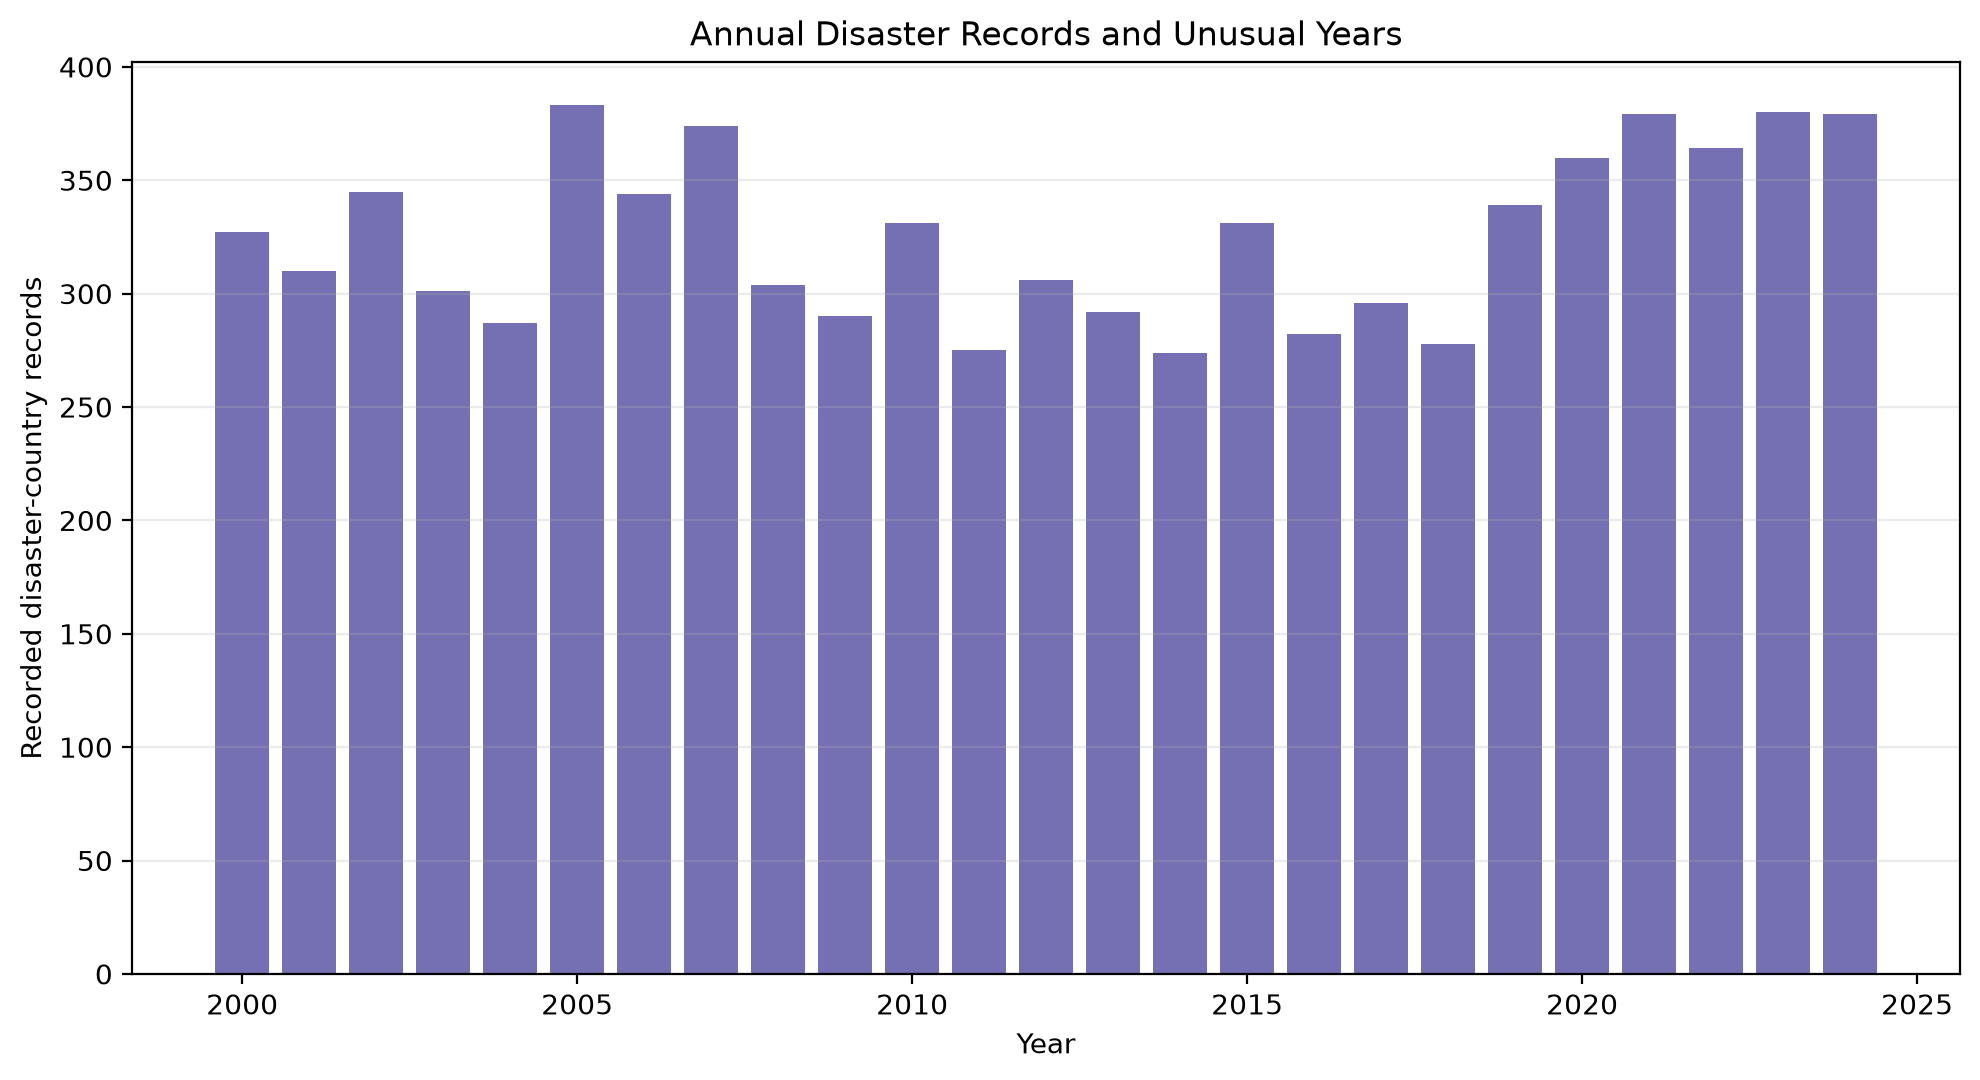
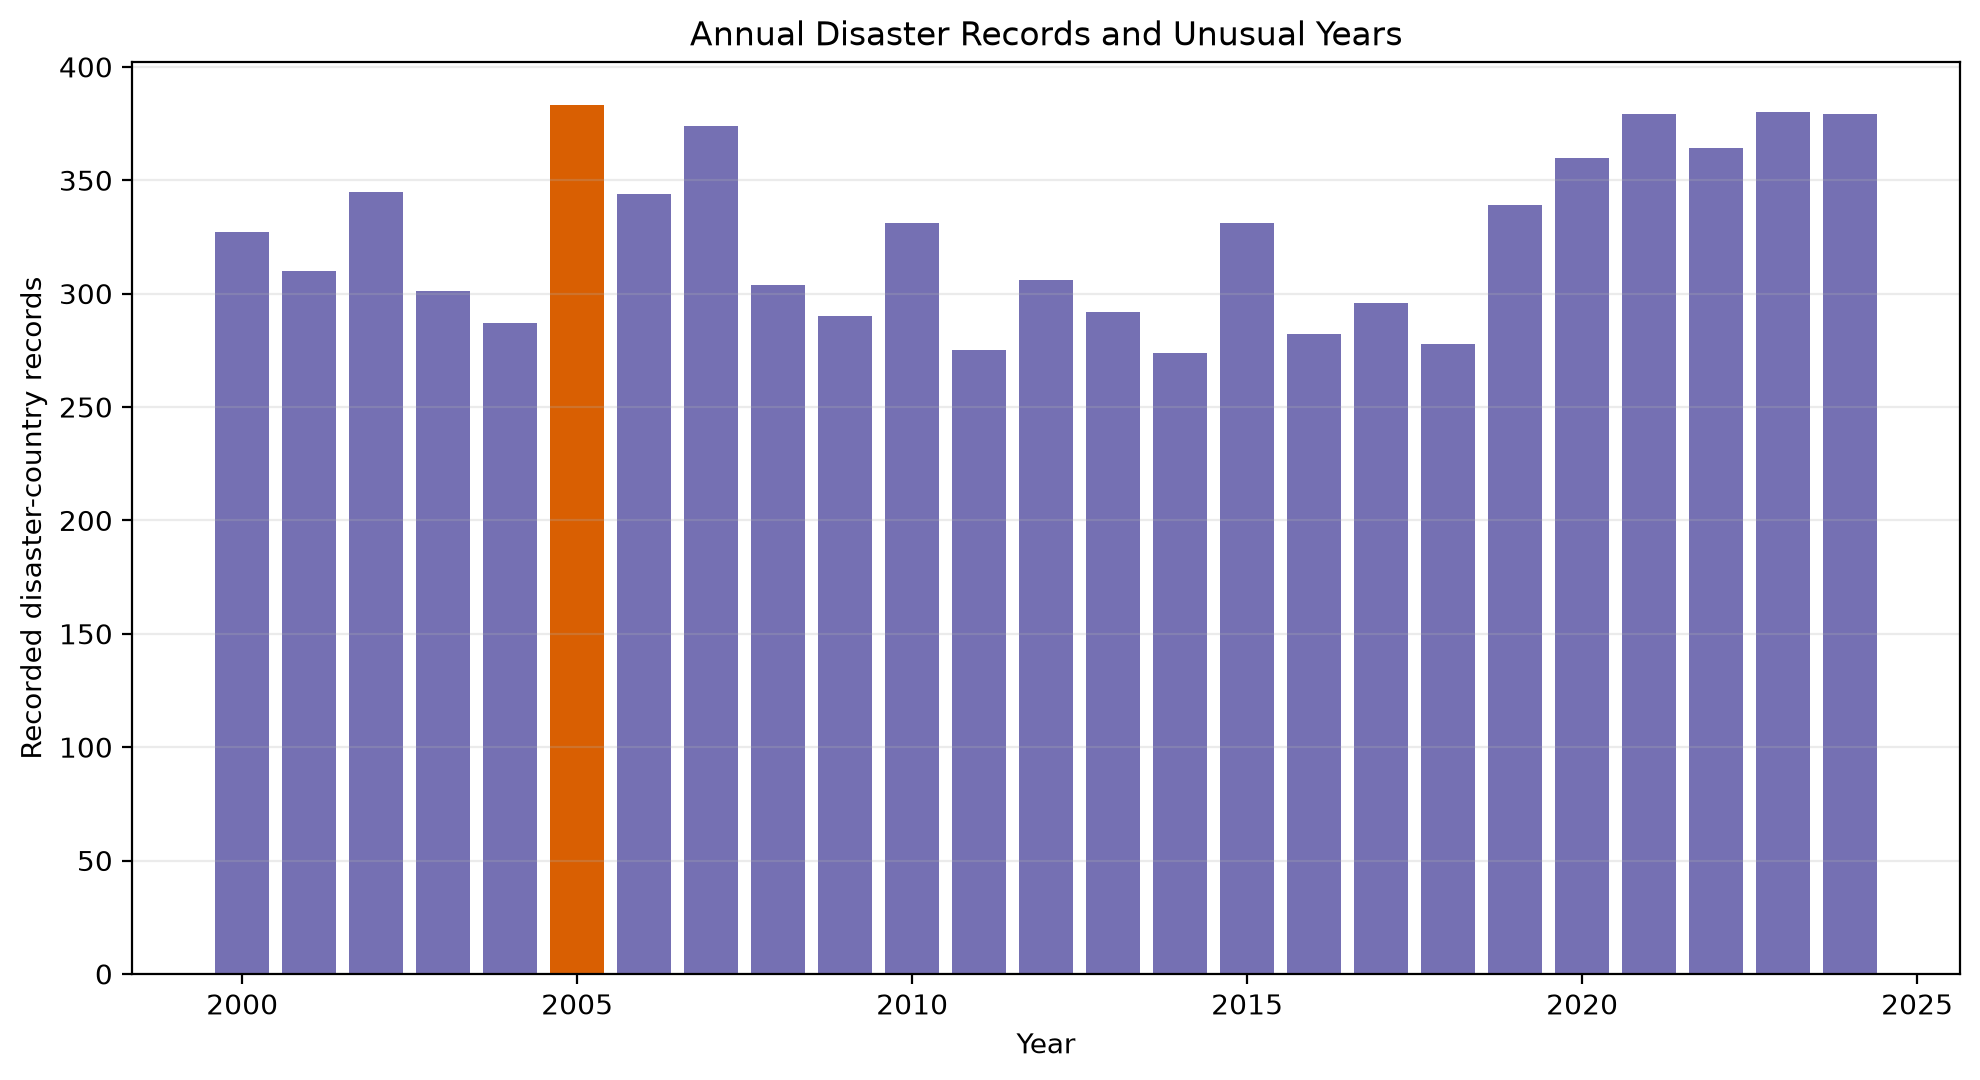
update z score threshold

Changed region(s): [[0.2773, 0.0917, 0.3081, 0.9167]]

diff --git a/main.py b/main.py
@@ -37,6 +37,7 @@ START_YEAR = 2000
 END_YEAR = 2024
 OUTPUT_DIR = Path("iss_week4_outputs")
 WEEK7_OUTPUT_DIR = Path("iss_week7_outputs")
+UNUSUAL_YEAR_Z_THRESHOLD = 1.5
 
 # Selected EM-DAT disaster types. Verify spelling against your downloaded file.
 CLIMATE_DISASTER_TYPES = {
@@ -236,7 +237,9 @@ def build_annual_impact_summary(event_df, country_year_df):
     else:
         annual["event_count_zscore"] = 0.0
 
-    annual["unusual_event_year"] = annual["event_count_zscore"].abs() >= 2
+    annual["unusual_event_year"] = (
+        annual["event_count_zscore"].abs() >= UNUSUAL_YEAR_Z_THRESHOLD
+    )
     return annual
 
 
@@ -518,7 +521,10 @@ def main():
     ]
 
     if unusual_years.empty:
-        week7_report.append("No years crossed the absolute 2-standard-deviation threshold for annual recorded event counts.")
+        week7_report.append(
+            "No years crossed the absolute "
+            f"{UNUSUAL_YEAR_Z_THRESHOLD:g}-standard-deviation threshold for annual recorded event counts."
+        )
     else:
         for _, row in unusual_years.iterrows():
             week7_report.append(f"- {int(row['year'])}: {int(row['recorded_events']):,} records; z-score {row['event_count_zscore']:.2f}.")
